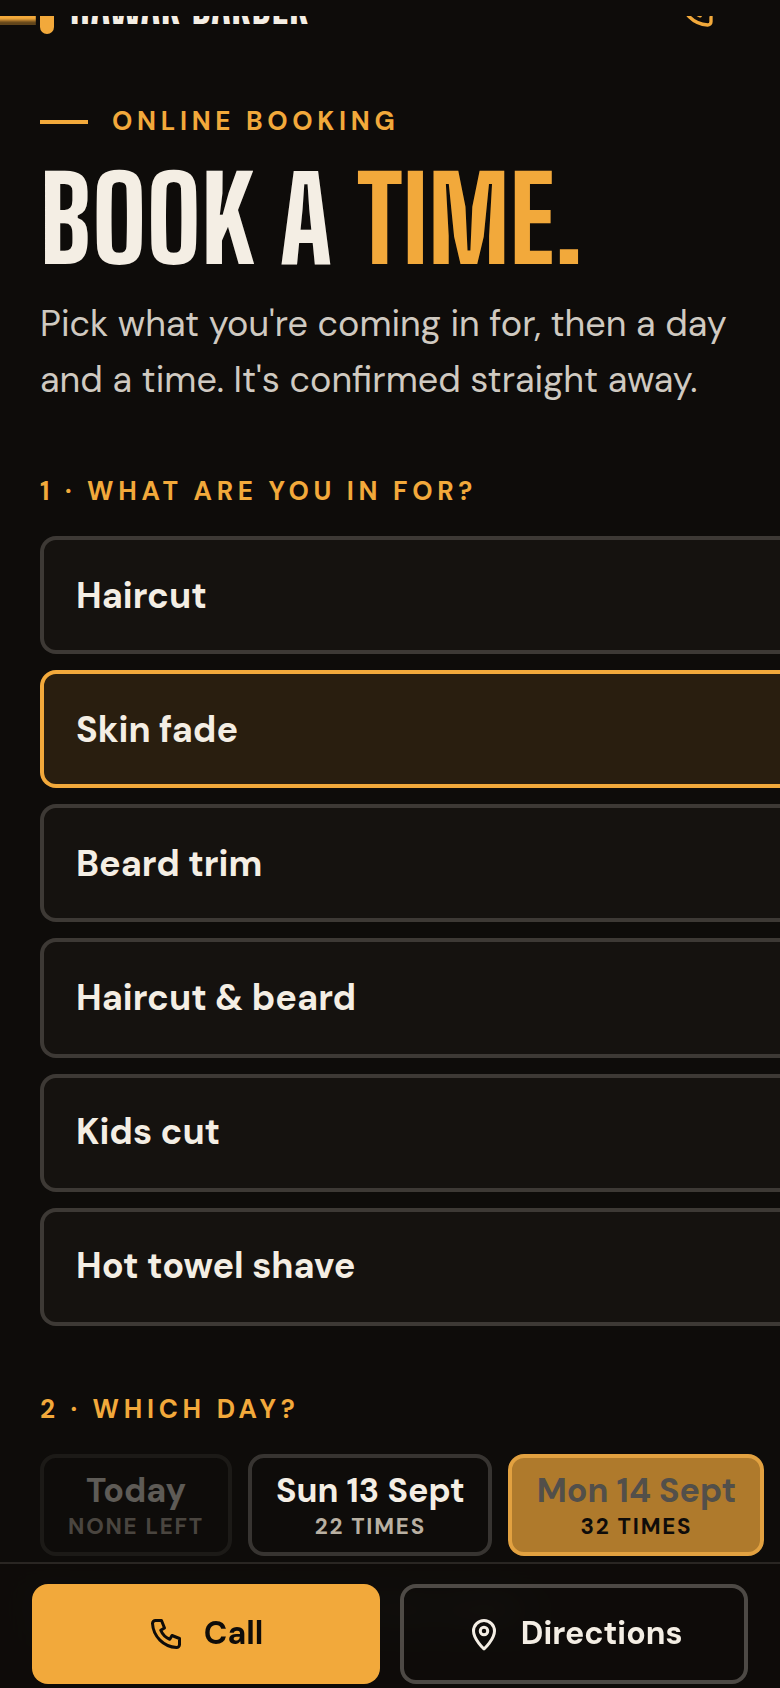
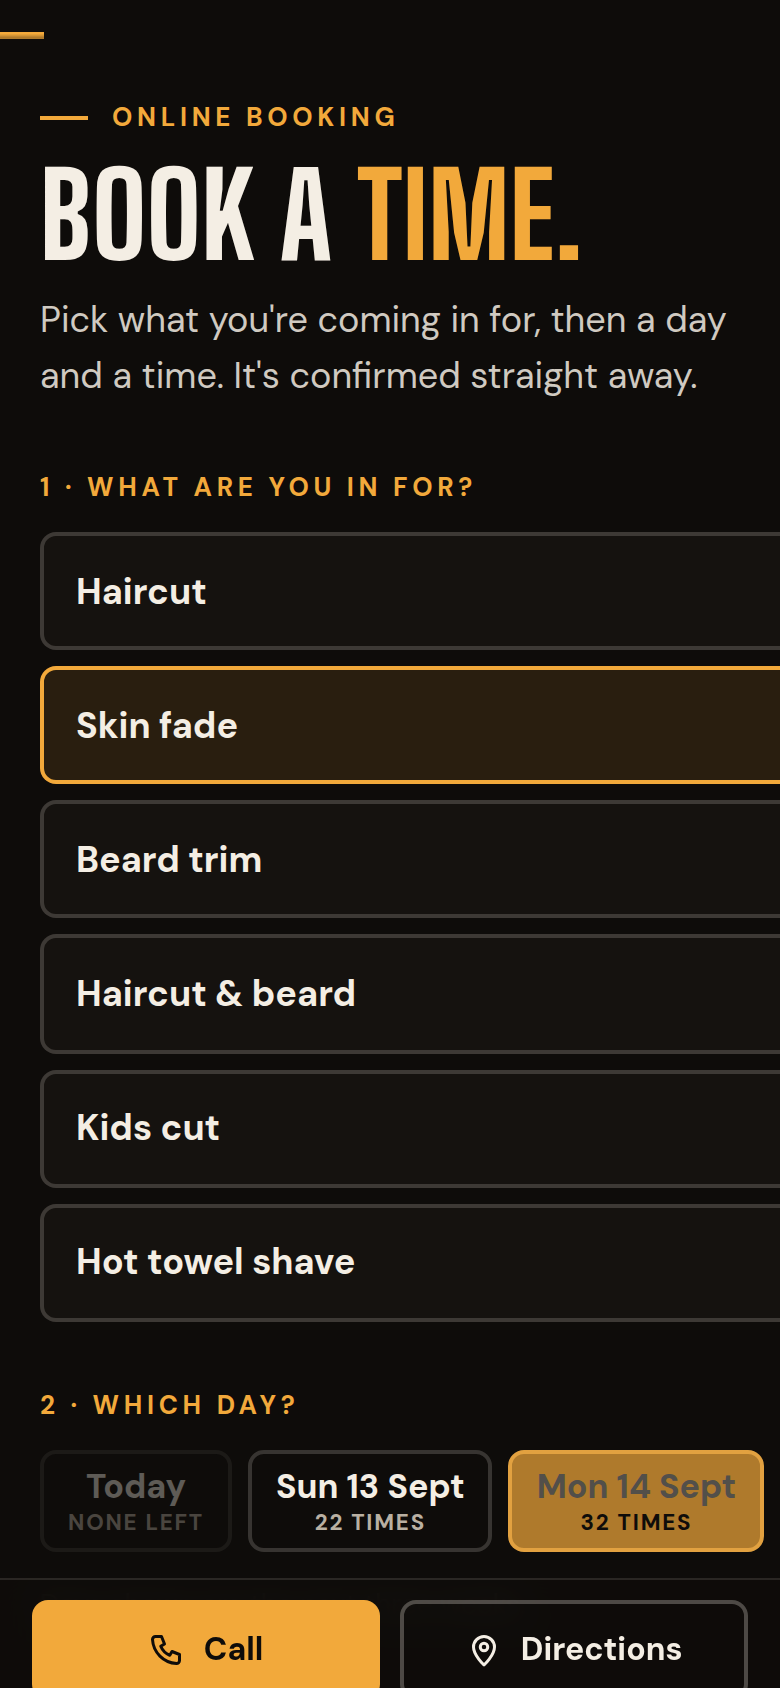
Hardening from the security review: real semicolon escaping in the .ics file, first-name-only greeting in customer emails, stricter email address check
Claude-Session: https://claude.ai/code/session_01FrT8oueVw3GY28BiAXJok9

diff --git a/hawar-barber/src/lib/notify.ts b/hawar-barber/src/lib/notify.ts
@@ -28,6 +28,8 @@ async function send(env: Env, to: string, subject: string, lines: string[]): Pro
 }
 
 const when = (b: BookingRow) => `${fmtDayLong(b.local_date)} at ${fmtTime(b.local_time)}`;
+/** One word of the name, letters only, for the greeting in mail that goes to the customer. */
+const firstName = (name: string) => (name.split(' ')[0] ?? '').replace(/[^\p{L}\p{M}'-]/gu, '').slice(0, 20);
 const endTime = (b: BookingRow) => {
   const [h, m] = b.local_time.split(':').map(Number);
   const e = h * 60 + m + b.minutes;
@@ -50,7 +52,7 @@ export async function notifyNewBooking(env: Env, b: BookingRow): Promise<void> {
   }
   if (b.email) {
     await send(env, b.email, `Booked: ${b.service_name} at ${site.name}, ${when(b)}`, [
-      `Hi ${b.name}, you're booked in.`,
+      `Hi ${firstName(b.name) || 'there'}, you're booked in.`,
       `${b.service_name} (${b.minutes} min), ${when(b)}.`,
       `${site.name}, ${site.address.street}, ${site.address.locality} ${site.address.postcode}.`,
       '',
@@ -64,7 +66,7 @@ export async function notifyNewBooking(env: Env, b: BookingRow): Promise<void> {
 export async function notifyCancelledByShop(env: Env, b: BookingRow): Promise<void> {
   if (!b.email) return;
   await send(env, b.email, `Cancelled: your ${b.service_name} at ${site.name}, ${when(b)}`, [
-    `Hi ${b.name}, sorry: the shop has had to cancel your ${b.service_name} on ${when(b)}.`,
+    `Hi ${firstName(b.name) || 'there'}, sorry: the shop has had to cancel your ${b.service_name} on ${when(b)}.`,
     `Book another time: ${site.url}/book`,
     `Or call ${site.phone.display}.`,
   ]);

diff --git a/hawar-barber/src/lib/booking.ts b/hawar-barber/src/lib/booking.ts
@@ -88,7 +88,7 @@ export const EXAMPLE_PHONE = '07700 900123'; // Ofcom drama range: never a real 
 /** Control, bidi-override, zero-width and separator characters: none belong in a name. */
 const INVISIBLE = /[\u0000-\u0009\u000b-\u001f\u007f-\u009f\u00ad\u061c\u200b-\u200f\u2028-\u202e\u2060-\u2064\u2066-\u2069\ufeff]/g;
 export const clean = (v: unknown, max: number) => (typeof v === 'string' ? v.replace(INVISIBLE, '').replace(/\s+/g, ' ').trim().slice(0, max + 1) : '');
-const EMAIL = /^[^\s@]+@[^\s@]+\.[^\s@]{2,}$/;
+const EMAIL = /^[^\s@<>"'(),;]+@[^\s@<>"'(),;]+\.[^\s@<>"'(),;]{2,}$/;
 
 export interface BookingInput { serviceId: string; date: string; time: string; name: string; phone: string; email: string | null }
 export type Validation = { ok: true; value: BookingInput; service: Service; start: Date } | { ok: false; status: number; errors: Record<string, string> };

diff --git a/hawar-barber/src/pages/api/ics/[token].ts b/hawar-barber/src/pages/api/ics/[token].ts
@@ -5,7 +5,7 @@ import { site } from '@config';
 import { bookingByToken } from '@/lib/db';
 
 const basic = (iso: string) => iso.replace(/[-:]/g, '').replace(/\.\d{3}/, '');
-const esc = (s: string) => s.replace(/\\/g, '\\\\').replace(/;/g, '\;').replace(/,/g, '\\,').replace(/\r?\n/g, '\\n');
+const esc = (s: string) => s.replace(/\\/g, '\\\\').replace(/;/g, '\\;').replace(/,/g, '\\,').replace(/\r?\n/g, '\\n');
 
 export const GET: APIRoute = async ({ params, locals }) => {
   const env = locals.runtime?.env;
